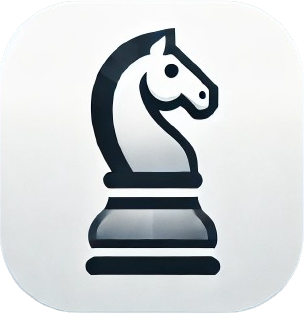
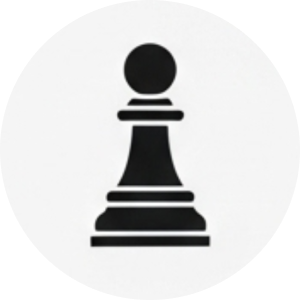
Update: added new images for the draw Mode Button and updated buttons
* the switch on/off button is now colorful
* the draw mode button now shows an image of an arrow or a circle
* updated the icon

diff --git a/src/styles.css b/src/styles.css
@@ -3,21 +3,19 @@ body {
 }
 
 .grid-container {
-    gap: 20px;
+    display: grid;
+    gap: 15px;
     justify-items: center;
     align-items: center;
     padding: 20px;
+    width: 200px;
 }
 
 .grid-item {
     display: flex;
     justify-content: center;
     align-items: center;
-    padding-bottom: 20px;
-}
-
-.grid-item:last-child {
-    padding-bottom: 0;
+    width: 100%;
 }
 
 .button {
@@ -28,12 +26,12 @@ body {
     border-width: 0;
     box-shadow: rgba(45, 35, 66, 0.4) 0 2px 4px, rgba(45, 35, 66, 0.3) 0 7px 13px -3px, #d6d6e7 0 -3px 0 inset;
     box-sizing: border-box;
-    color: #36395a;
+    color: #2e2e2e;
     cursor: pointer;
     display: inline-flex;
     font-family: "JetBrains Mono", monospace;
     height: 48px;
-    width: 150px;
+    width: 100%;
     justify-content: center;
     line-height: 1;
     list-style: none;
@@ -41,9 +39,9 @@ body {
     padding-left: 16px;
     padding-right: 16px;
     position: relative;
-    text-align: left;
+    text-align: center;
     text-decoration: none;
-    transition: box-shadow 0.15s, transform 0.15s;
+    transition: box-shadow 0.15s, transform 0.15s, background-color 0.15s;
     user-select: none;
     -webkit-user-select: none;
     touch-action: manipulation;
@@ -52,29 +50,49 @@ body {
     font-size: 14px;
 }
 
-.button:focus {
-    box-shadow: #d6d6e7 0 0 0 1.5px inset, rgba(45, 35, 66, 0.4) 0 2px 4px, rgba(45, 35, 66, 0.3) 0 7px 13px -3px,
-        #d6d6e7 0 -3px 0 inset;
-}
-
 .button:hover {
     box-shadow: rgba(45, 35, 66, 0.4) 0 4px 8px, rgba(45, 35, 66, 0.3) 0 7px 13px -3px, #d6d6e7 0 -3px 0 inset;
     transform: translateY(-2px);
 }
 
 .button:active {
-    box-shadow: #d6d6e7 0 3px 7px inset;
     transform: translateY(2px);
+}
+
+.button-on {
+    box-shadow: rgba(45, 35, 66, 0.4) 0 2px 4px, rgba(45, 35, 66, 0.3) 0 7px 13px -3px, #7fccb8 0 -3px 0 inset;
+    background-color: #a7f3d0;
+    color: #2e2e2e;
+}
+
+.button-on:hover {
+    box-shadow: rgba(45, 35, 66, 0.4) 0 4px 8px, rgba(45, 35, 66, 0.3) 0 7px 13px -3px, #7fccb8 0 -3px 0 inset;
+}
+
+.button-off {
+    box-shadow: rgba(45, 35, 66, 0.4) 0 2px 4px, rgba(45, 35, 66, 0.3) 0 7px 13px -3px, #df8f8f 0 -3px 0 inset;
+    background-color: #fecaca;
+    color: #2e2e2e;
+}
+
+.button-off:hover {
+    box-shadow: rgba(45, 35, 66, 0.4) 0 4px 8px, rgba(45, 35, 66, 0.3) 0 7px 13px -3px, #df8f8f 0 -3px 0 inset;
+}
+
+.button-icon {
+    height: 14px;
+    width: 14px;
+    margin-right: 8px;
 }
 
 .caption-label {
     font-family: "JetBrains Mono", monospace;
     text-decoration: underline;
     font-size: 20px;
-    color: #36395a;
+    color: #2e2e2e;
 }
 
 .author-label {
     font-family: "JetBrains Mono", monospace;
-    color: #36395a;
+    color: #2e2e2e;
 }

diff --git a/src/popup.js b/src/popup.js
@@ -2,6 +2,8 @@ import { LocalStorage, DrawMode } from "./types/background_types.js";
 
 const runScriptButton = document.getElementById("runScriptButton");
 const toggleDrawModeButton = document.getElementById("toggleDrawModeButton");
+const drawModeIcon = document.getElementById("drawModeIcon");
+const drawModeText = document.getElementById("drawModeText");
 
 let isCurrentlyRunning = false;
 let currentDrawMode = DrawMode.ARROW;
@@ -10,8 +12,23 @@ function updateUI(isRunning, drawMode) {
     isCurrentlyRunning = isRunning;
     currentDrawMode = drawMode;
 
-    runScriptButton.textContent = isRunning ? "Switch Off" : "Switch On";
-    toggleDrawModeButton.textContent = drawMode === DrawMode.CIRCLE ? "Draw Arrows" : "Draw Circles";
+    if (isRunning) {
+        runScriptButton.textContent = "Switch Off";
+        runScriptButton.classList.remove("button-on");
+        runScriptButton.classList.add("button-off");
+    } else {
+        runScriptButton.textContent = "Switch On";
+        runScriptButton.classList.remove("button-off");
+        runScriptButton.classList.add("button-on");
+    }
+
+    if (drawMode === DrawMode.CIRCLE) {
+        drawModeIcon.src = "/assets/arrow.png";
+        drawModeText.textContent = "Draw Arrows";
+    } else {
+        drawModeIcon.src = "/assets/circle.png";
+        drawModeText.textContent = "Draw Circles";
+    }
 }
 
 runScriptButton.addEventListener("click", async () => {

diff --git a/src/popup.html b/src/popup.html
@@ -13,7 +13,10 @@
                     <button class="button" id="runScriptButton">Switch On</button>
                 </div>
                 <div class="grid-item">
-                    <button class="button" id="toggleDrawModeButton">Toggle Drawing</button>
+                    <button class="button" id="toggleDrawModeButton">
+                        <img id="drawModeIcon" src="/assets/arrow.png" class="button-icon" />
+                        <span id="drawModeText">Toggle Drawing</span>
+                    </button>
                 </div>
                 <div class="grid-item">
                     <label class="author-label">Made by IEPiX</label>
